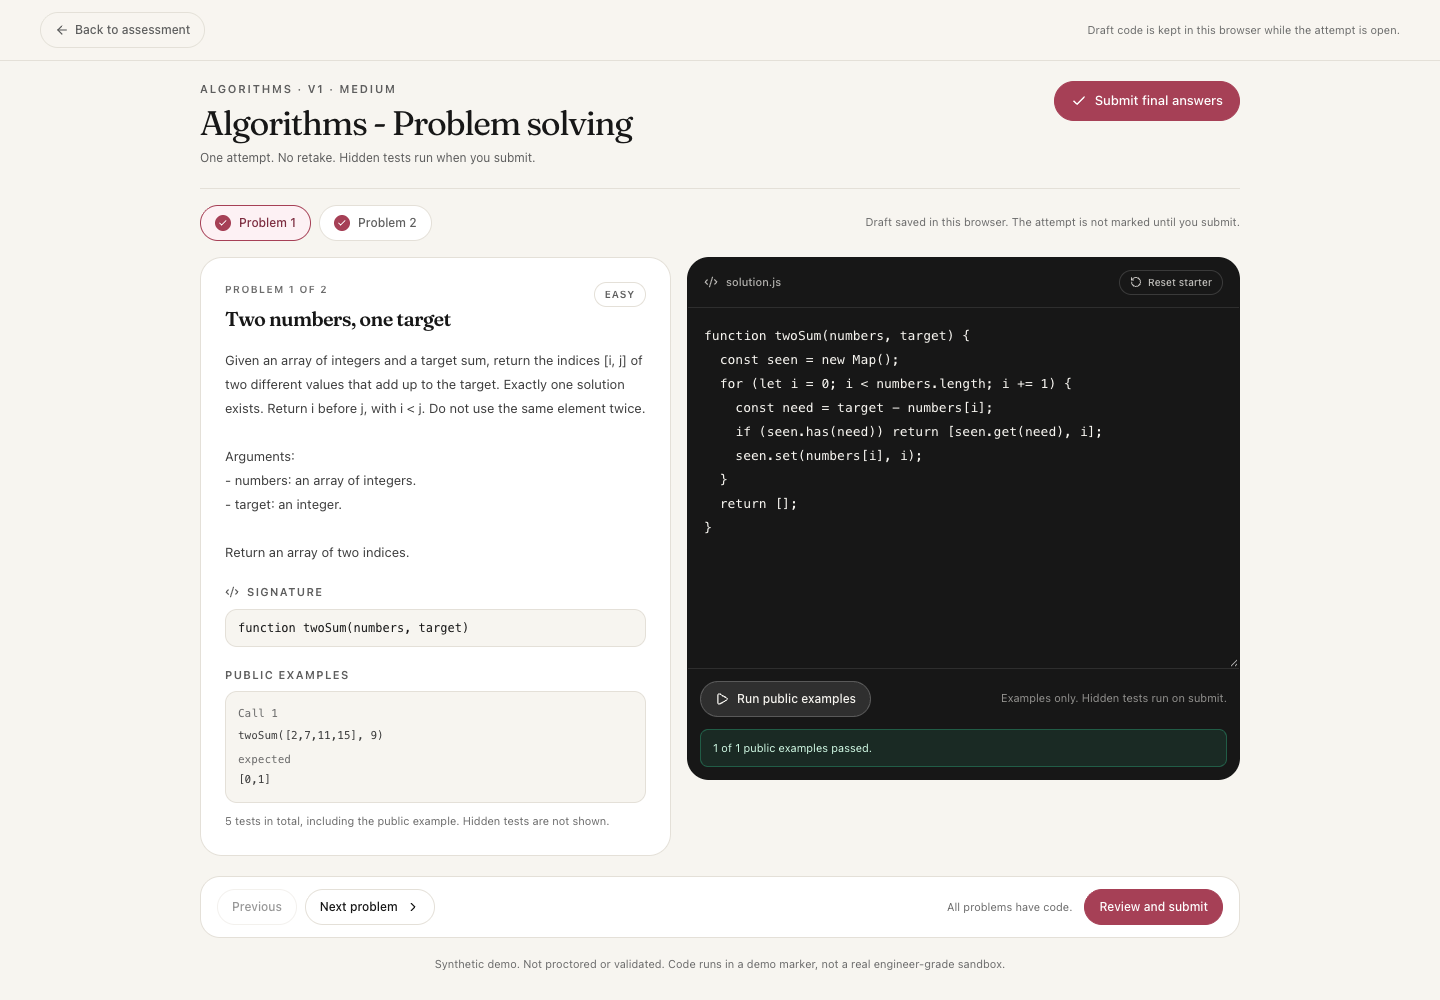
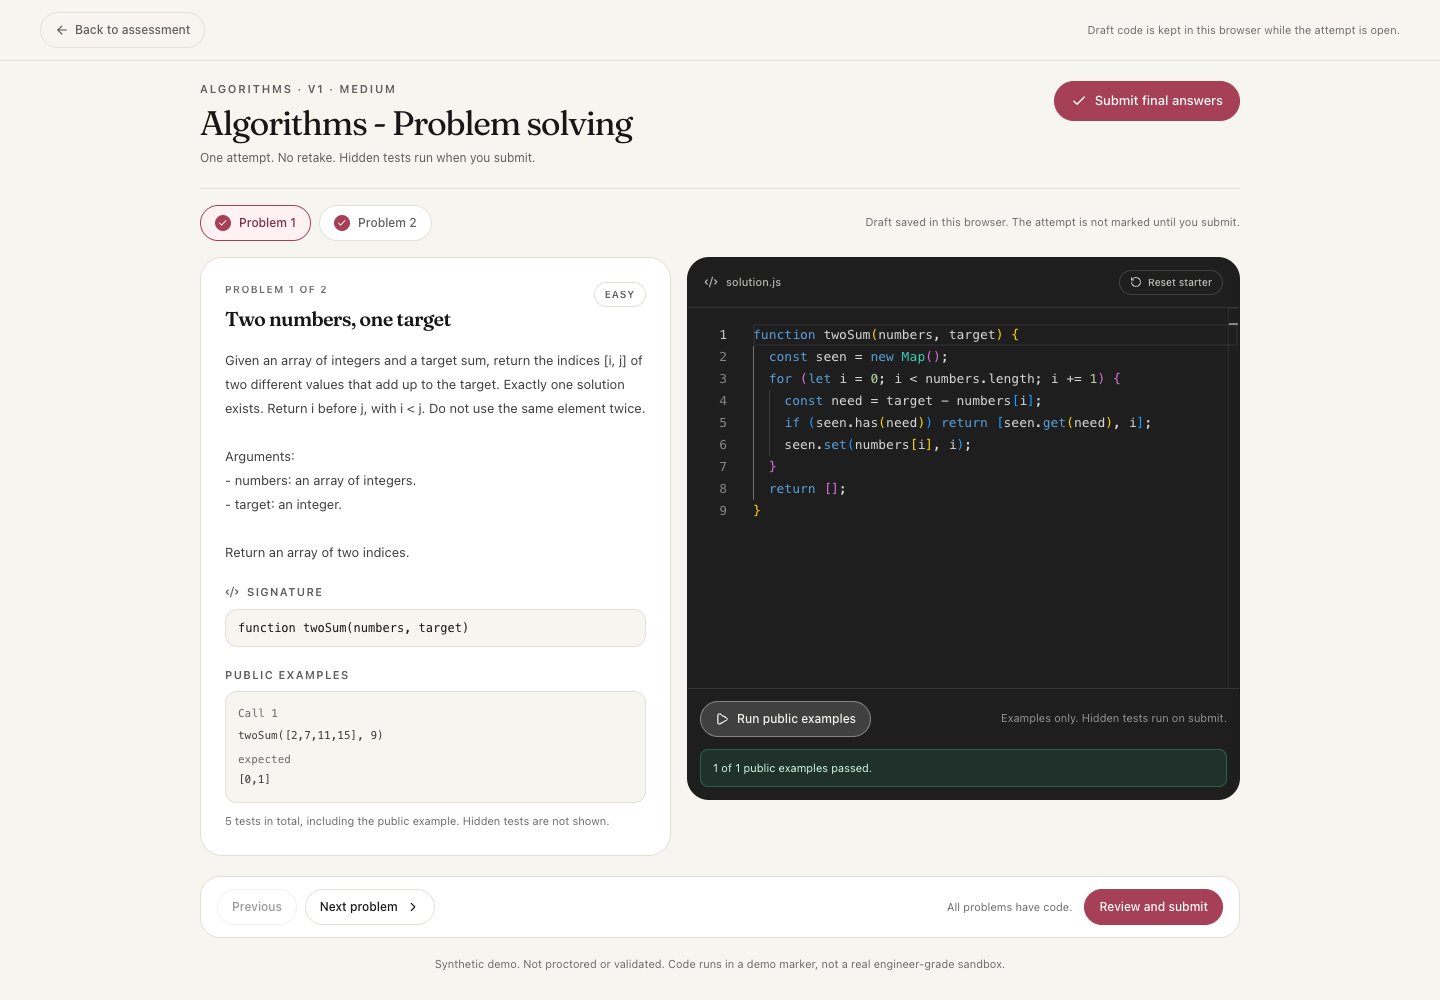
feat: use Monaco vs-dark code editor for OA

Changed region(s): [[0.4688, 0.682, 0.875, 0.806], [0.5, 0.31, 0.7812, 0.496], [0.5, 0.496, 0.5312, 0.527]]

diff --git a/recruitment-app/src/components/assessments/assessment-runner.tsx b/recruitment-app/src/components/assessments/assessment-runner.tsx
@@ -1,10 +1,11 @@
 "use client";
 
-import { useEffect, useMemo, useState, type KeyboardEvent } from "react";
+import { useEffect, useMemo, useState } from "react";
 import Link from "next/link";
 import { ArrowLeft, ArrowRight, Check, CheckCircle2, ChevronRight, Code2, Loader2, Play, RotateCcw, XCircle } from "lucide-react";
 import { toast } from "sonner";
 import { Button } from "@/components/ui/button";
+import { CodeEditor } from "@/components/assessments/code-editor";
 import {
   Dialog,
   DialogContent,
@@ -271,20 +272,6 @@ export function AssessmentRunner({
     }
   }
 
-  function onEditorKeyDown(event: KeyboardEvent<HTMLTextAreaElement>) {
-    if (event.key !== "Tab") return;
-    event.preventDefault();
-    const target = event.currentTarget;
-    const start = target.selectionStart;
-    const end = target.selectionEnd;
-    const nextCode = target.value.slice(0, start) + "  " + target.value.slice(end);
-    updateCode(nextCode);
-    window.requestAnimationFrame(() => {
-      target.selectionStart = start + 2;
-      target.selectionEnd = start + 2;
-    });
-  }
-
   return (
     <div className="animate-fade-up" data-testid="assessment-runner">
       <div className="flex flex-wrap items-start justify-between gap-4 border-b border-line pb-5">
@@ -393,7 +380,7 @@ export function AssessmentRunner({
           </div>
         </section>
 
-        <section className="overflow-hidden rounded-[22px] border border-ink/15 bg-ink">
+        <section className="overflow-hidden rounded-[22px] border border-ink/15 bg-[#1e1e1e]">
           <div className="flex flex-wrap items-center justify-between gap-2 border-b border-white/10 px-4 py-3">
             <div className="flex items-center gap-2 text-[11px] font-medium text-paper/70">
               <Code2 className="h-3.5 w-3.5" />
@@ -407,16 +394,12 @@ export function AssessmentRunner({
               <RotateCcw className="h-3 w-3" /> Reset starter
             </button>
           </div>
-          <textarea
+          <CodeEditor
+            problemId={current.id}
+            title={current.title}
             value={submissions[current.id] ?? ""}
-            onChange={(event) => updateCode(event.target.value)}
-            onKeyDown={onEditorKeyDown}
-            spellCheck={false}
-            autoCapitalize="off"
-            autoCorrect="off"
-            aria-label={"Code for " + current.title}
-            data-testid="assessment-code"
-            className="block min-h-[360px] w-full resize-y border-0 bg-ink px-4 py-4 font-mono text-[13px] leading-6 text-paper outline-none focus-visible:ring-2 focus-visible:ring-inset focus-visible:ring-accent/70"
+            readOnly={busy}
+            onChange={updateCode}
           />
           <div className="border-t border-white/10 p-3">
             <div className="flex flex-wrap items-center justify-between gap-3">

diff --git a/recruitment-app/src/components/assessments/code-editor.tsx b/recruitment-app/src/components/assessments/code-editor.tsx
@@ -1,0 +1,69 @@
+"use client";
+
+import dynamic from "next/dynamic";
+import type { OnChange, OnMount } from "@monaco-editor/react";
+
+const MonacoEditor = dynamic(() => import("@monaco-editor/react").then((module) => module.default), {
+  ssr: false,
+  loading: () => (
+    <div className="flex h-full items-center justify-center bg-[#1e1e1e]">
+      <p className="text-[12px] text-white/60">Loading editor...</p>
+    </div>
+  ),
+});
+
+export function CodeEditor({
+  problemId,
+  title,
+  value,
+  readOnly = false,
+  onChange,
+}: {
+  problemId: string;
+  title: string;
+  value: string;
+  readOnly?: boolean;
+  onChange: (value: string) => void;
+}) {
+  const handleMount: OnMount = (editor) => {
+    editor.focus();
+  };
+
+  const handleChange: OnChange = (nextValue) => {
+    onChange(nextValue ?? "");
+  };
+
+  return (
+    <div className="h-[380px] w-full overflow-hidden bg-[#1e1e1e]" data-testid="assessment-code">
+      <MonacoEditor
+        height="100%"
+        language="javascript"
+        theme="vs-dark"
+        path={"problems/" + problemId + ".js"}
+        value={value}
+        onChange={handleChange}
+        onMount={handleMount}
+        loading={<div className="flex h-full items-center justify-center text-[12px] text-white/60">Loading editor...</div>}
+        options={{
+          readOnly,
+          automaticLayout: true,
+          minimap: { enabled: false },
+          scrollBeyondLastLine: false,
+          fontSize: 13,
+          lineHeight: 22,
+          tabSize: 2,
+          insertSpaces: true,
+          wordWrap: "off",
+          padding: { top: 16, bottom: 16 },
+          renderLineHighlight: "line",
+          smoothScrolling: true,
+          cursorBlinking: "smooth",
+          fontFamily:
+            "ui-monospace, SFMono-Regular, SF Mono, Menlo, Monaco, Consolas, Liberation Mono, monospace",
+          ariaLabel: "Code for " + title,
+          scrollbar: { verticalScrollbarSize: 10, horizontalScrollbarSize: 10 },
+        }}
+      />
+    </div>
+  );
+}

diff --git a/recruitment-app/README.md b/recruitment-app/README.md
@@ -54,6 +54,7 @@ Use the sample buttons or sign in with those credentials. You can also create a 
 | **CV onboarding** | Candidates upload a CV or choose a synthetic sample. The demo stores file metadata only; there is no automated CV screening. |
 | **Online assessments, not CVs** | Four playable coding assessments and seven problems, server-side marking against hidden tests, exact family/version/difficulty. Six catalogue-only entries stay clearly labelled. |
 | **One attempt, final** | One sitting per candidate per assessment per recruiting cycle. No retake, no cooldown and no second submission. The database unique key enforces the rule. |
+| **Monaco editor** | The OA editor is Monaco in Visual Studio Dark, lazy-loaded from jsDelivr. Public examples can be run repeatedly; hidden tests mark the one final submission. |
 | **Recruiter need capture** | One to three exact assessment requirements per role, each with its own 0–100 score, plus structured signals. |
 | **No ranking** | No percentile, match percentage, or universal person score. Cards are not sorted by score. |
 | **Below-bar visibility** | Candidates below any stated bar stay in a visible secondary view with evidence and a named review owner. |
@@ -123,10 +124,10 @@ No live AI call is required or claimed. The optional AI/tailoring surfaces remai
     src/app/actions/             demo auth, session, CV onboarding, tailoring/session actions
     src/app/api/                 decisions, assessments, invitations, roles, profile, matches, messages,
                                  evidence, feed, optional AI routes
-    src/components/              account/onboarding panels, dashboards, assessment runner, feeds,
+    src/components/              account/onboarding panels, Monaco OA editor and runner, dashboards, feeds,
                                  role-card form, invitations, discovery lane, review/evidence, matches
-    src/lib/                     auth hashing, OA problem rules and server marking, feed composition, matching, outcomes,
-                                 stages, role-card templates, profile completeness, repository boundary
+    src/lib/                     auth hashing, OA rules and server marking, feed composition, matching,
+                                 outcomes, stages, profile completeness, repository boundary
     prisma/                      SQLite schema, synthetic seed data and seed assertions
     scripts/                     smoke, screenshots, AI fallback audit, fit helpers
     audit/                       deterministic fallback evidence; future redacted live-capture rules
@@ -143,7 +144,7 @@ The repository boundary is still `src/lib/repo`. Runtime pages and components do
 
 - No live AI run or live model output.
 - No model-vs-fallback superiority.
-- No assessment validation, proctoring or legal-compliance claim. The code marker uses a Node vm and is not a production code sandbox.
+- No assessment validation, proctoring or legal-compliance claim. The code marker uses a Node vm and is not a production code sandbox. The Monaco editor is loaded from a public CDN at runtime.
 - No bias-elimination guarantee; the design is an intent under review.
 - No real authentication, email verification, payment, file storage or messaging transport. The public Vercel demo is synthetic and is not production infrastructure.
 - No prize, placement or eligibility prediction.

diff --git a/recruitment-app/DECISIONS.md b/recruitment-app/DECISIONS.md
@@ -35,6 +35,7 @@ This file records the judgment calls made while turning the second-pass prototyp
 - **Recruiters onboard through need capture.** New hiring accounts are routed to a role-card setup with one to three exact assessment requirements and scores before they browse.
 - **Separate dashboards make the purpose explicit.** Candidate home centres evidence, CV status, assessments, invitations and updates. Hiring home centres role cards, bars, outreach and matches. Mobile navigation is trimmed to five core items; secondary links stay on the dashboard.
 - **Multiple OA requirements per role.** `Role.requirementsJson` stores up to three assessment/score pairs. The primary requirement drives the existing feed evidence; all stated requirements are visible on role cards and evidence panels. Seed roles use one requirement each.
+- **The editor is Monaco in Visual Studio Dark.** The OA runner lazy-loads Monaco from jsDelivr. This adds one runtime CDN request; the local marker, hidden tests, scores and one-attempt rule do not depend on it. The alternative, bundling Monaco into the Next client, adds substantial build and worker configuration for this demo.
 - **The OA runner is a product surface, not a timer or proctor.** Candidates see the problem statement, public examples, a code editor, a public-example check and one final submission. Draft code is saved in the browser. Hidden tests are never sent to the browser.
 - **Starting an OA does not navigate to a DB-backed page.** The start response renders in place so a serverless instance split cannot turn "start" into a 404. Submission can recreate a missing attempt row from the assessment id; direct attempt links show a recovery page rather than a raw 404.
 - **Security headers are explicit.** `next.config.ts` sets Permissions-Policy, Referrer-Policy and X-Content-Type-Options. The Permissions-Policy uses only widely recognised features; browser extensions that inject `browsing-topics=()` can still produce a harmless Chrome console warning.

diff --git a/recruitment-app/screenshots/README.md b/recruitment-app/screenshots/README.md
@@ -12,7 +12,7 @@ These images were captured from the running Rivet demo with **no AI keys** and a
 | recruiter-onboarding-desktop.png | Hiring setup with multiple assessment requirements and scores | 1440×full page |
 | assessments-catalogue-desktop.png | Online assessment catalogue: four playable coding challenges, final/not-started states and catalogue-only entries | 1440×1000 |
 | assessment-detail-desktop.png | Assessment detail: one sitting per cycle, final attempt rule and start action | 1440×full page |
-| assessment-runner-desktop.png | OA runner: problem statement, public examples, JavaScript editor and public-example check | 1440×1000 |
+| assessment-runner-desktop.png | OA runner: problem statement, public examples, Monaco JavaScript editor in Visual Studio Dark and public-example check | 1440×1000 |
 | assessment-result-desktop.png | Final OA score, per-problem hidden-test counts and the no-retake notice | 1440×1000 |
 | candidate-feed-desktop.png | Candidate mixed feed with compact evidence badge, Like and Priority-intro counts | 1440×1000 |
 | candidate-evidence-detail-desktop.png | Evidence badge hover showing required assessment versions, scores and assessment links | 1440×1000 |

diff --git a/recruitment-app/HANDOFF.md b/recruitment-app/HANDOFF.md
@@ -19,7 +19,7 @@ All data is synthetic. No real people, employers, assessments, evidence, message
 
 ## What changed
 
-- Added the OA platform: four playable coding assessments, seven problems, a code runner with public examples, deterministic server-side hidden-test marking, final scores and one attempt per recruiting cycle with no retake.
+- Added the OA platform: four playable coding assessments, seven problems, a Monaco editor in Visual Studio Dark, public examples, deterministic server-side hidden-test marking, final scores and one attempt per recruiting cycle with no retake.
 - Added temporary accounts, sample logins, candidate CV/sample onboarding, separate candidate and hiring dashboards.
 - Added structured candidate profile editing and discovery opt-in. The onboarding CV is context only; there is no CV parser or automated screening.
 - Added recruiter need-capture onboarding with one to three exact assessment requirements and scores.
